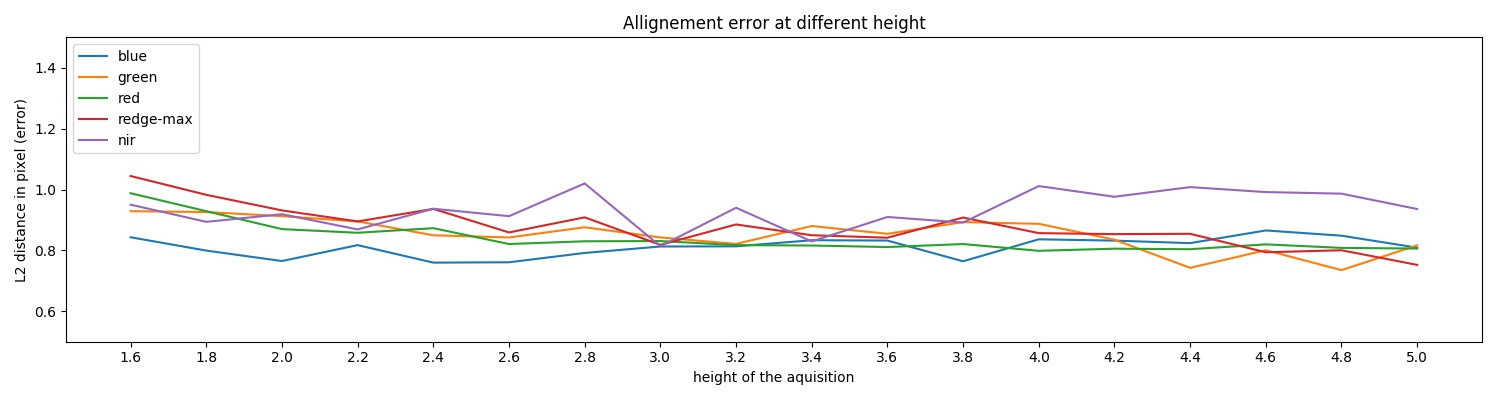
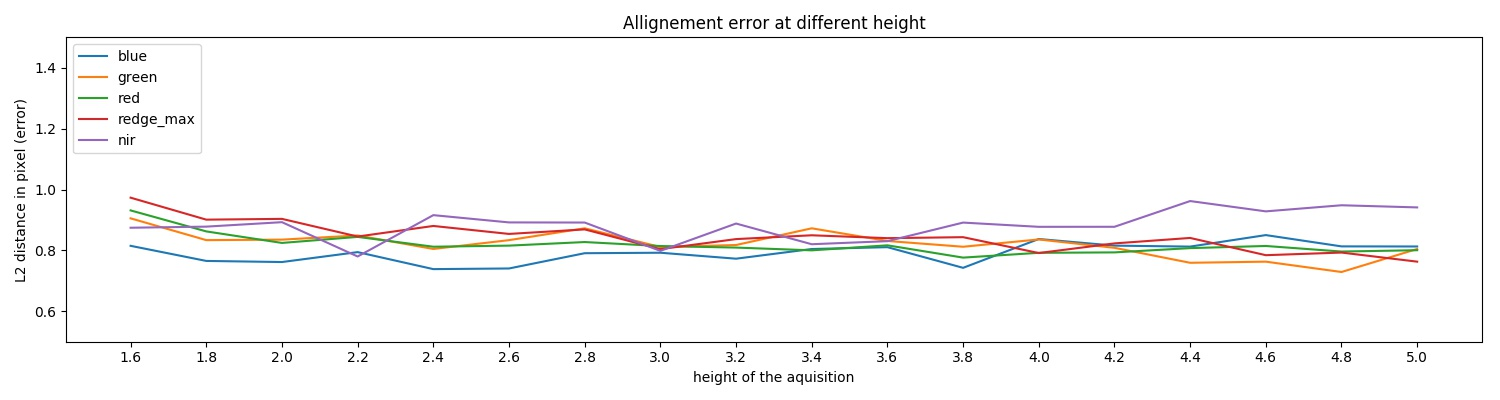
auto Gaussian size + keypoint extraction optimization

diff --git a/airphen/keypoint.py b/airphen/keypoint.py
@@ -1,10 +1,12 @@
 #!/usr/bin/python3
 import numpy as np
+import itertools
 import math
 import cv2
 
 from scipy.spatial import distance
 from functools import partial
+
 
 class FilterDetection:
     
@@ -77,26 +79,32 @@ def keypoint_detect(img1, img2, method='FAST'):
     }
     
     detector = detectors[method]()
-    kp1 = detector.detect(img1,None)
-    kp2 = detector.detect(img2,None)
+    kp1, kp2 = detector.detect([img1, img2],None)
+    
     descriptor = cv2.ORB_create()
-    kp1, des1 = descriptor.compute(img1, kp1)
-    kp2, des2 = descriptor.compute(img2, kp2)
+    (kp1, kp2), (des1, des2) = descriptor.compute([img1, img2], [kp1, kp2])
     
     #print('keypoint matching ...')
+    matcher = 0
     
-    if True:
-        bf = cv2.BFMatcher(cv2.NORM_HAMMING2, crossCheck=True)
+    if matcher==0:
+        bf = cv2.BFMatcher(descriptor.defaultNorm(), crossCheck=True)
         matches = bf.match(des1,des2)
+    elif matcher==1:
+        fv1 = cv2.detail.computeImageFeatures2(descriptor,img1)
+        fv2 = cv2.detail.computeImageFeatures2(descriptor,img2)
+        bf = cv2.detail.BestOf2NearestMatcher_create(True, 0.01,0,0)
+        matches = bf.apply(fv1, fv2).getMatches()
+        print(len(matches))
     else:
         FLANN_INDEX_KDTREE = cv2.flann.FLANN_INDEX_TYPE_32F
-        index_params = dict(algorithm = FLANN_INDEX_KDTREE, trees = 1)
-        search_params = dict(checks = 2)
+        index_params = dict(algorithm = FLANN_INDEX_KDTREE, trees = 4)
+        search_params = dict(checks = 50)
         flann = cv2.FlannBasedMatcher(index_params, search_params)
-        matches = flann.match(des1,des2)
+        matches = flann.match(np.asarray(des1, np.float32), np.asarray(des2, np.float32))
     pass
     
-    matches = sorted(matches, key = lambda x:x.distance)
+    #matches = sorted(matches, key = lambda x:x.distance)
     
     return matches, kp1, kp2
 pass

diff --git a/airphen/image_processing.py b/airphen/image_processing.py
@@ -1,15 +1,18 @@
 import cv2
 import numpy as np
 import rasterio
+import math
 import os
 
 def gradient_normalize(i):
-    G = cv2.GaussianBlur(i,(9,9),cv2.BORDER_DEFAULT)
+    s = math.ceil(i.shape[0]**0.4) // 2 * 2 +1
+    G = cv2.GaussianBlur(i,(s,s),cv2.BORDER_DEFAULT)
     return i/(G+1)*255
 pass
 
 def false_color_normalize(i):
-    G = cv2.GaussianBlur(i,(9,9),cv2.BORDER_DEFAULT)
+    s = math.ceil(i.shape[0]**0.4) // 2 * 2 +1
+    G = cv2.GaussianBlur(i,(s,s),cv2.BORDER_DEFAULT)
     i = abs(i+G.min()) / G.max()
     return i
 pass

diff --git a/airphen/data.py b/airphen/data.py
@@ -12,7 +12,7 @@ height = np.array([
 ])
 
 # excluded green (reference)
-bands_text = ['blue', 'green', 'red', 'redge', 'redge-max', 'nir']
+bands_text = ['blue', 'green', 'red', 'redge', 'redge_max', 'nir']
 all_bands = [450, 570, 675, 710, 730, 850]
 
 all_methods = ['ORB', 'AKAZE', 'KAZE', 'BRISK', 'AGAST', 'MSER', 'SURF', 'FAST', 'GFTT']
